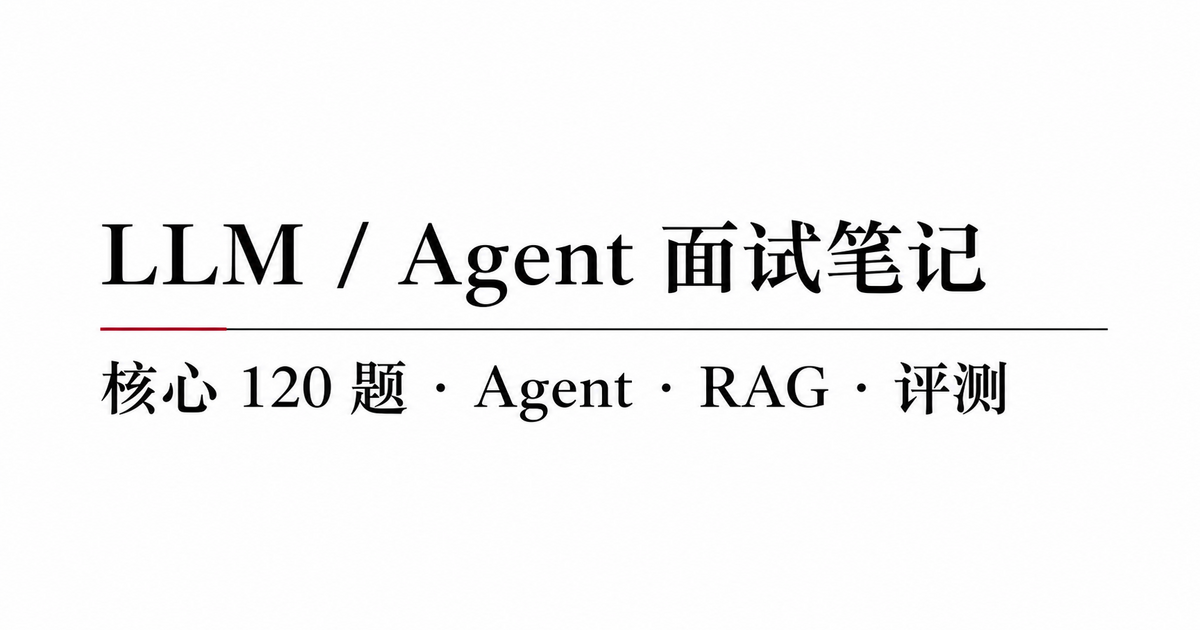
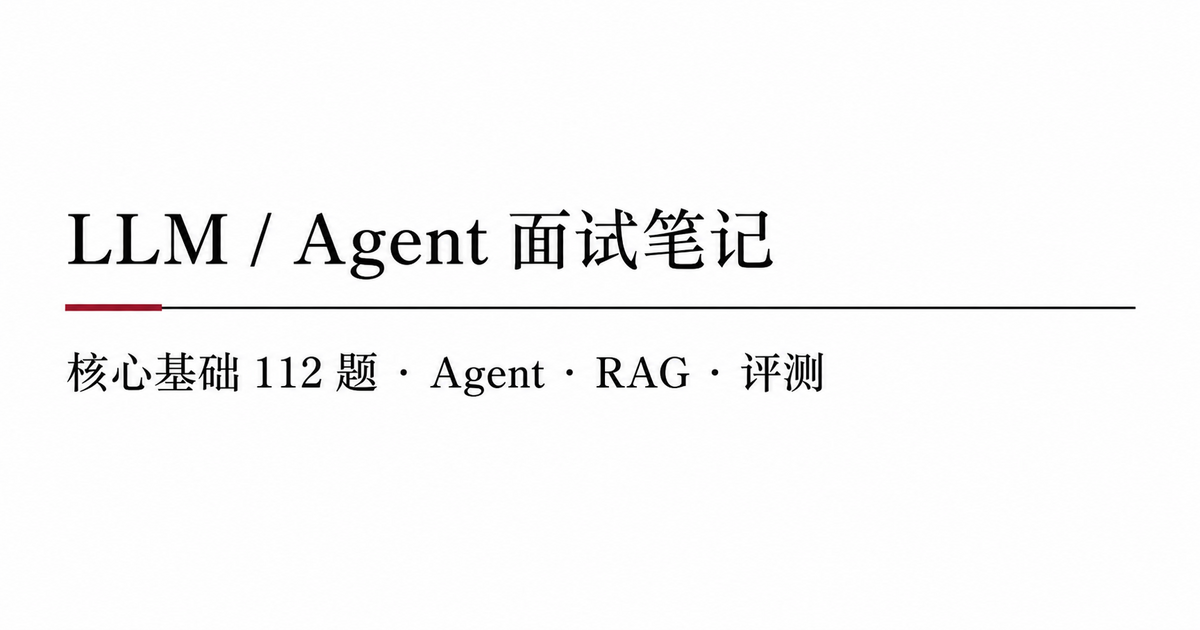
refactor: remove project interview section

Changed region(s): [[0.0308, 0.3317, 0.9558, 0.6635], [0.74, 0.573, 0.8633, 0.6635]]

diff --git a/site/index.html b/site/index.html
@@ -4,15 +4,15 @@
     <meta charset="UTF-8" />
     <meta name="viewport" content="width=device-width, initial-scale=1.0" />
     <meta name="theme-color" content="#ffffff" />
-    <meta name="description" content="120 道高频 LLM 与 Agent 核心面试题。像读一份简单的学术讲义一样复习、搜索与自测。" />
+    <meta name="description" content="112 道高频 LLM 与 Agent 核心基础面试题。像读一份简单的学术讲义一样复习、搜索与自测。" />
     <meta property="og:title" content="LLM / Agent 面试笔记" />
-    <meta property="og:description" content="核心 120 题：Agent、RAG、评测与大模型工程。" />
+    <meta property="og:description" content="核心基础 112 题：Agent、RAG、评测与大模型工程。" />
     <meta property="og:type" content="website" />
     <meta property="og:url" content="https://auroraechos.github.io/LLM-Agent-Basic/" />
     <meta property="og:image" content="https://auroraechos.github.io/LLM-Agent-Basic/assets/og.png" />
     <meta name="twitter:card" content="summary_large_image" />
     <meta name="twitter:title" content="LLM / Agent 面试笔记" />
-    <meta name="twitter:description" content="核心 120 题：Agent、RAG、评测与大模型工程。" />
+    <meta name="twitter:description" content="核心基础 112 题：Agent、RAG、评测与大模型工程。" />
     <meta name="twitter:image" content="https://auroraechos.github.io/LLM-Agent-Basic/assets/og.png" />
     <link rel="canonical" href="https://auroraechos.github.io/LLM-Agent-Basic/" />
     <title>LLM / Agent 面试笔记</title>

diff --git a/INDEX.md b/INDEX.md
@@ -3,11 +3,11 @@
 
 > 点击问题即可进入对应的答案笔记。填写“我的答案”后，下一次生成索引时会自动勾选。
 
-当前进度：**120 / 120**
+当前进度：**112 / 112**
 
 ## 题库导航
 
-- [LLM 与 Agent 核心面试题](#bank-1)（120 题）
+- [LLM 与 Agent 核心面试题](#bank-1)（112 题）
 
 <a id="bank-1"></a>
 ## LLM 与 Agent 核心面试题
@@ -15,17 +15,6 @@
 题目来源：[CORE_INTERVIEW_QUESTIONS.md](CORE_INTERVIEW_QUESTIONS.md)
 
 <a id="bank-1-section-1"></a>
-### 项目与简历深挖
-
-- [x] [EXP-001 · 请用三分钟介绍一个你最有代表性的 LLM 或 Agent 项目，并说明你的个人贡献。](answers/exp/EXP-001.md)
-- [x] [EXP-002 · 这个项目解决了什么业务问题，为什么需要使用大模型而不是传统方案？](answers/exp/EXP-002.md)
-- [x] [EXP-003 · 项目的离线指标、在线指标和最终业务收益分别是什么？](answers/exp/EXP-003.md)
-- [x] [EXP-004 · 你如何设计项目的基线方案，并证明后续优化确实有效？](answers/exp/EXP-004.md)
-- [x] [EXP-005 · 项目中最困难的问题是什么，你如何定位根因并完成验证？](answers/exp/EXP-005.md)
-- [x] [EXP-006 · 你做过哪些失败的尝试，失败原因是什么？](answers/exp/EXP-006.md)
-- [x] [EXP-010 · 你的方案在延迟、吞吐、质量和成本之间做了哪些权衡？](answers/exp/EXP-010.md)
-- [x] [EXP-012 · 线上出现模型效果退化时，你会按照什么顺序排查？](answers/exp/EXP-012.md)
-<a id="bank-1-section-2"></a>
 ### LLM 与 Transformer 基础
 
 - [x] [ARC-001 · 请完整描述原始 Transformer 的 Encoder、Decoder 及其数据流。](answers/arc/ARC-001.md)
@@ -43,7 +32,7 @@
 - [x] [ARC-029 · 如何估算一个 Decoder-Only Transformer 的参数量？](answers/arc/ARC-029.md)
 - [x] [DAT-001 · 请描述 BPE 的训练过程和对新文本的编码过程。](answers/dat/DAT-001.md)
 - [x] [DAT-002 · BPE、Byte-Level BPE、WordPiece、Unigram 和 SentencePiece 有什么区别？](answers/dat/DAT-002.md)
-<a id="bank-1-section-3"></a>
+<a id="bank-1-section-2"></a>
 ### 训练、微调与对齐
 
 - [x] [OPT-001 · Decoder-Only LLM 的 Next-Token Prediction 损失如何计算？](answers/opt/OPT-001.md)
@@ -61,7 +50,7 @@
 - [x] [FT-008 · LoRA 的低秩假设是什么，前向计算与参数量如何推导？](answers/ft/FT-008.md)
 - [x] [ALN-001 · 经典 RLHF 的 SFT、Reward Model 和 Policy Optimization 三个阶段如何衔接？](answers/aln/ALN-001.md)
 - [x] [ALN-010 · DPO 如何从 KL 正则化的 RL 目标推导出直接偏好损失？](answers/aln/ALN-010.md)
-<a id="bank-1-section-4"></a>
+<a id="bank-1-section-3"></a>
 ### 推理与部署
 
 - [x] [INF-001 · Prefill 与 Decode 两个阶段的计算特征和性能瓶颈有什么不同？](answers/inf/INF-001.md)
@@ -76,7 +65,7 @@
 - [x] [DEP-001 · 模型量化的基本目标是什么，Weight、Activation 和 KV Cache 量化有何区别？](answers/dep/DEP-001.md)
 - [x] [DEP-016 · vLLM、TensorRT-LLM、SGLang、llama.cpp 和 DeepSpeed-Inference 如何选型？](answers/dep/DEP-016.md)
 - [x] [DEP-021 · 如何针对吞吐优先、延迟优先和成本优先三种目标选择部署方案？](answers/dep/DEP-021.md)
-<a id="bank-1-section-5"></a>
+<a id="bank-1-section-4"></a>
 ### RAG 与知识系统
 
 - [x] [RAG-001 · RAG 的离线索引和在线查询全链路分别包含哪些阶段？](answers/rag/RAG-001.md)
@@ -95,7 +84,7 @@
 - [x] [RAG-022 · 如何区分检索失败、重排失败、上下文构造失败和生成失败？](answers/rag/RAG-022.md)
 - [x] [RAG-026 · 多租户 RAG 如何实现权限过滤、数据隔离和审计？](answers/rag/RAG-026.md)
 - [x] [RAG-028 · RAG 系统如何抵御文档中的 Prompt Injection 与数据投毒？](answers/rag/RAG-028.md)
-<a id="bank-1-section-6"></a>
+<a id="bank-1-section-5"></a>
 ### Agent、工具与上下文工程
 
 - [x] [AGT-001 · LLM Agent 的模型、规划、工具、记忆和执行环境分别承担什么职责？](answers/agt/AGT-001.md)
@@ -128,7 +117,7 @@
 - [x] [AGT-044 · Context Rot、Lost in the Middle、指令冲突和历史污染分别如何影响 Agent，应该如何缓解？](answers/agt/AGT-044.md)
 - [x] [AGT-046 · 为什么任务状态不应只存在于对话文本中，如何建立外部状态存储与 Single Source of Truth？](answers/agt/AGT-046.md)
 - [x] [AGT-047 · 如何为系统指令、用户输入、检索文档、网页内容和工具结果建立信任分层，防止间接 Prompt Injection 污染上下文？](answers/agt/AGT-047.md)
-<a id="bank-1-section-7"></a>
+<a id="bank-1-section-6"></a>
 ### 评估、幻觉与安全
 
 - [x] [EVA-002 · 自动 Benchmark、人工评测、LLM-as-Judge 和竞技场评测有何优缺点？](answers/eva/EVA-002.md)
@@ -143,7 +132,7 @@
 - [x] [EVA-017 · 直接 Prompt Injection 与间接 Prompt Injection 有何差异？](answers/eva/EVA-017.md)
 - [x] [EVA-019 · 如何防止工具调用中的权限提升、参数注入和 Confused Deputy 问题？](answers/eva/EVA-019.md)
 - [x] [EVA-028 · 如何建立线上 Bad Case 收集、聚类、归因和闭环修复流程？](answers/eva/EVA-028.md)
-<a id="bank-1-section-8"></a>
+<a id="bank-1-section-7"></a>
 ### 代码与系统设计
 
 - [x] [COD-001 · 使用 PyTorch 手写支持 Mask 的 Scaled Dot-Product Self-Attention。](answers/cod/COD-001.md)

diff --git a/CORE_INTERVIEW_QUESTIONS.md b/CORE_INTERVIEW_QUESTIONS.md
@@ -2,20 +2,9 @@
 
 > 本题库只保留 LLM / Agent 岗位最常形成连续追问链的核心问题。
 >
-> 共 **120 题**，建议按“项目 → 模型基础 → 训练与对齐 → 推理部署 → RAG → Agent → 评估安全 → 系统设计”顺序复习。目标不是逐字背诵，而是每题能够在 2～3 分钟内讲清定义、机制、取舍和实践。
+> 共 **112 题**，建议按“模型基础 → 训练与对齐 → 推理部署 → RAG → Agent → 评估安全 → 系统设计”顺序复习。目标不是逐字背诵，而是每题能够在 2～3 分钟内讲清定义、机制、取舍和实践。
 
-## 1. 项目与简历深挖
-
-- [ ] `EXP-001` 请用三分钟介绍一个你最有代表性的 LLM 或 Agent 项目，并说明你的个人贡献。
-- [ ] `EXP-002` 这个项目解决了什么业务问题，为什么需要使用大模型而不是传统方案？
-- [ ] `EXP-003` 项目的离线指标、在线指标和最终业务收益分别是什么？
-- [ ] `EXP-004` 你如何设计项目的基线方案，并证明后续优化确实有效？
-- [ ] `EXP-005` 项目中最困难的问题是什么，你如何定位根因并完成验证？
-- [ ] `EXP-006` 你做过哪些失败的尝试，失败原因是什么？
-- [ ] `EXP-010` 你的方案在延迟、吞吐、质量和成本之间做了哪些权衡？
-- [ ] `EXP-012` 线上出现模型效果退化时，你会按照什么顺序排查？
-
-## 2. LLM 与 Transformer 基础
+## 1. LLM 与 Transformer 基础
 
 - [ ] `ARC-001` 请完整描述原始 Transformer 的 Encoder、Decoder 及其数据流。
 - [ ] `ARC-003` 请从矩阵形状出发推导 Scaled Dot-Product Attention 的完整计算过程。
@@ -33,7 +22,7 @@
 - [ ] `DAT-001` 请描述 BPE 的训练过程和对新文本的编码过程。
 - [ ] `DAT-002` BPE、Byte-Level BPE、WordPiece、Unigram 和 SentencePiece 有什么区别？
 
-## 3. 训练、微调与对齐
+## 2. 训练、微调与对齐
 
 - [ ] `OPT-001` Decoder-Only LLM 的 Next-Token Prediction 损失如何计算？
 - [ ] `OPT-002` 交叉熵、信息熵、负对数似然和 KL 散度之间是什么关系？
@@ -51,7 +40,7 @@
 - [ ] `ALN-001` 经典 RLHF 的 SFT、Reward Model 和 Policy Optimization 三个阶段如何衔接？
 - [ ] `ALN-010` DPO 如何从 KL 正则化的 RL 目标推导出直接偏好损失？
 
-## 4. 推理与部署
+## 3. 推理与部署
 
 - [ ] `INF-001` Prefill 与 Decode 两个阶段的计算特征和性能瓶颈有什么不同？
 - [ ] `INF-002` KV Cache 为什么能够降低自回归解码的重复计算？
@@ -66,7 +55,7 @@
 - [ ] `DEP-016` vLLM、TensorRT-LLM、SGLang、llama.cpp 和 DeepSpeed-Inference 如何选型？
 - [ ] `DEP-021` 如何针对吞吐优先、延迟优先和成本优先三种目标选择部署方案？
 
-## 5. RAG 与知识系统
+## 4. RAG 与知识系统
 
 - [ ] `RAG-001` RAG 的离线索引和在线查询全链路分别包含哪些阶段？
 - [ ] `RAG-002` RAG 与微调分别适合解决知识更新、风格适配和能力学习中的哪些问题？
@@ -85,7 +74,7 @@
 - [ ] `RAG-026` 多租户 RAG 如何实现权限过滤、数据隔离和审计？
 - [ ] `RAG-028` RAG 系统如何抵御文档中的 Prompt Injection 与数据投毒？
 
-## 6. Agent、工具与上下文工程
+## 5. Agent、工具与上下文工程
 
 - [ ] `AGT-001` LLM Agent 的模型、规划、工具、记忆和执行环境分别承担什么职责？
 - [ ] `AGT-002` ReAct 如何交替进行推理与行动，它与 CoT、Act-Only 有何差异？
@@ -118,7 +107,7 @@
 - [ ] `AGT-046` 为什么任务状态不应只存在于对话文本中，如何建立外部状态存储与 Single Source of Truth？
 - [ ] `AGT-047` 如何为系统指令、用户输入、检索文档、网页内容和工具结果建立信任分层，防止间接 Prompt Injection 污染上下文？
 
-## 7. 评估、幻觉与安全
+## 6. 评估、幻觉与安全
 
 - [ ] `EVA-002` 自动 Benchmark、人工评测、LLM-as-Judge 和竞技场评测有何优缺点？
 - [ ] `EVA-003` LLM-as-Judge 的位置、长度、自我偏好和风格偏差如何控制？
@@ -133,7 +122,7 @@
 - [ ] `EVA-019` 如何防止工具调用中的权限提升、参数注入和 Confused Deputy 问题？
 - [ ] `EVA-028` 如何建立线上 Bad Case 收集、聚类、归因和闭环修复流程？
 
-## 8. 代码与系统设计
+## 7. 代码与系统设计
 
 - [ ] `COD-001` 使用 PyTorch 手写支持 Mask 的 Scaled Dot-Product Self-Attention。
 - [ ] `COD-014` 手写批量余弦相似度检索并返回 Top-K 文档。

diff --git a/README.md b/README.md
@@ -1,6 +1,6 @@
 # LLM-Agent-Basic
 
-面向 LLM / Agent 岗位的核心面试知识库，共 120 题。
+面向 LLM / Agent 岗位的核心基础面试知识库，共 112 题。
 
 ## 在线背题
 
